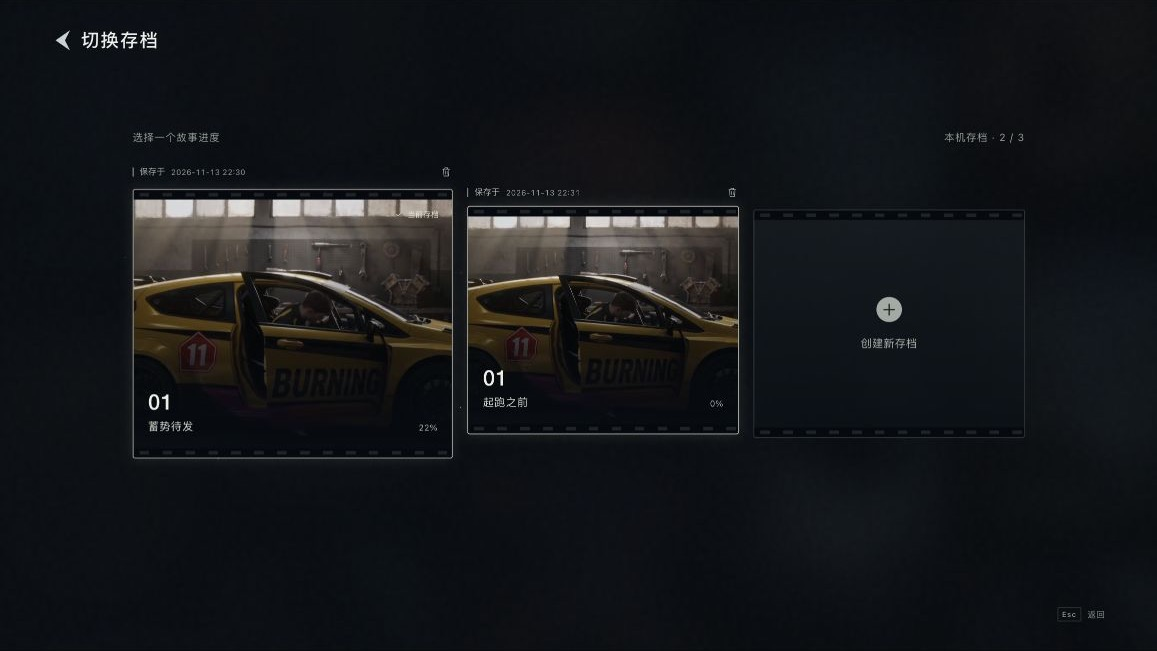
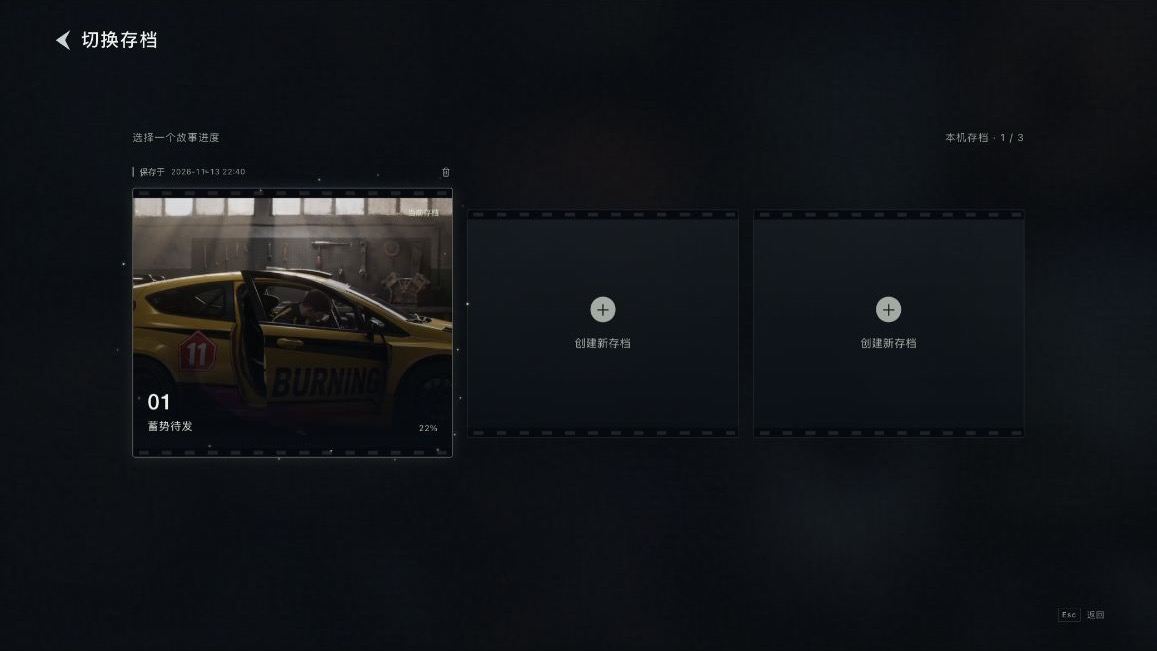
Make selected save card light dust more visible

diff --git a/compare.html b/compare.html
@@ -1,4 +1,4 @@
-<!doctype html><html lang="zh-CN"><head><meta charset="utf-8"><meta name="viewport" content="width=device-width,initial-scale=1"><title>Yoroll 游戏 UI · 改版对比与比例方案</title><link rel="icon" href="wall/assets/yoroll-icon.svg"><link rel="stylesheet" href="compare.css?v=saves-selected-dust-20261113"></head>
+<!doctype html><html lang="zh-CN"><head><meta charset="utf-8"><meta name="viewport" content="width=device-width,initial-scale=1"><title>Yoroll 游戏 UI · 改版对比与比例方案</title><link rel="icon" href="wall/assets/yoroll-icon.svg"><link rel="stylesheet" href="compare.css?v=saves-dust-visible-20261113"></head>
 <body><header class="report-header"><a class="brand" href="index.html"><img src="assets/yoroll-logo.png" alt="yoroll"></a><div><span>UI / MOTION STUDY</span><h1>更克制的比例，更连贯的节奏。</h1></div><a id="open-prototype" class="primary-link" href="index.html?page=home" target="_blank">打开交互原型 ↗</a></header>
 <div class="scope"><i></i><span>本地交互方案</span><span>14 个页面 / 状态</span><span>16:9 横版</span><span>未修改线上 Unity 游戏</span></div>
 <main class="report-layout"><aside class="page-sidebar"><div class="sidebar-title">逐页对比</div><nav id="page-list"></nav><a href="#proportions">比例调整方案 ↓</a><a href="#handoff">动效与交付说明 ↓</a></aside><article><section class="comparison-section"><div class="page-heading"><div><span id="page-kind" class="eyebrow"></span><h2 id="page-name"></h2></div><div class="page-switch"><button id="prev" aria-label="上一页">←</button><span id="page-count"></span><button id="next" aria-label="下一页">→</button></div></div>
@@ -6,4 +6,4 @@
 <div id="comparison" class="comparison fit-stage" data-mode="wipe"><div class="still-stage"><div class="before-layer"><img id="before-image" alt="修改前截图"><div id="no-before" class="no-before" hidden><span>—</span><h3>没有对应原版截图</h3><p id="before-note"></p></div><span class="picture-label before-label">原版</span></div><div class="after-layer" id="after-layer"><img id="after-image" alt="修改后截图"><span class="picture-label after-label">新版</span></div><div id="wipe-handle" class="wipe-handle"><span>↔</span></div><div class="safe-area" aria-hidden="true"><span>4.5% 水平安全区</span></div></div><div class="motion-stage" hidden><iframe id="motion-frame" title="页面动效预览"></iframe><div class="safe-area" aria-hidden="true"><span>4.5% 水平安全区</span></div></div></div>
 <div id="slider-row" class="slider-row"><span>新版更多</span><input id="wipe-slider" type="range" min="0" max="100" value="50" aria-label="新旧画面分割位置"><span>原版更多</span></div><p id="image-note" class="image-note"></p><div class="change-summary"><div><h3>布局与层级</h3><p id="change"></p></div><div><h3>比例</h3><p id="ratio"></p></div><div><h3>动效与操作</h3><p id="motion"></p><p id="interaction"></p></div></div></section>
 <section id="proportions" class="spec-section"><div class="section-heading"><span class="eyebrow">PROPORTION SYSTEM</span><h2>分别调整层级，建立统一的尺寸体系。</h2><p>以下均以 1920×1080 为设计基准。实际预览按画幅等比缩放，保持 16:9；水平安全区为画面宽度的 4.5%。原版数值来自截图估测。</p></div><div class="table-scroll"><table><thead><tr><th>项目</th><th>原版 · 约</th><th>新版</th><th>变化</th><th>调整目的</th></tr></thead><tbody id="proportion-table"></tbody></table></div><div class="principles"><div><span>01</span><h3>让场景成为主体</h3><p>减少全屏灰白覆盖和重高光。菜单、设置、弹窗用暗色虚化与局部明暗建立前后层次。</p></div><div><span>02</span><h3>控制视觉重量</h3><p>正文、辅助数值、主操作分别定标。保留大结果标题，收紧表单标签与导航控件。</p></div><div><span>03</span><h3>统一反馈语言</h3><p>细描边、短位移、柔和减速。悬停、按下、选中、取消与退出都给出明确回应。</p></div></div></section>
-<section id="handoff" class="spec-section"><div class="section-heading"><span class="eyebrow">MOTION SYSTEM</span><h2>一套进出场节奏，覆盖每个页面。</h2><p>页面退出 150ms，新页标题先入场，内容以 42–70ms 错峰，主体在约 0.8–1.1s 内落位。背景与封面 Logo 使用更长的缓慢收尾。</p></div><div class="motion-grid"><div><h3>常规入场</h3><strong>560–760<span> ms</span></strong><p>缓动 cubic-bezier(.16, 1, .3, 1)<br>上下位移约 8–24px，以设计基准计</p></div><div><h3>背景推近</h3><strong>3.6<span> s</span></strong><p>起止速度与加速度均为零<br>封面 100% → 103.5%，结束后停留</p></div><div><h3>确认弹窗</h3><strong>420<span> ms</span></strong><p>遮罩先淡入，弹窗轻浮落位<br>退出 150ms，取消后恢复焦点</p></div></div><div class="check-row"><span>✓ 页面切换</span><span>✓ 悬停 / 按下</span><span>✓ 键盘操作</span><span>✓ 弹窗焦点</span><span>✓ 减少动态效果适配</span><span>✓ 所有页面可重播</span><span>✓ Hover / 点击 / 切页音效</span></div><div class="file-links"><a href="design-tokens.json" download>下载尺寸与颜色参数</a><a href="motion-spec.json" download>下载逐页动效参数</a><a href="sound-spec.json" download>下载界面音效参数</a><a href="implementation-notes.txt" download>下载落地说明</a><a href="https://preview.game.yoroll.ai/?config=Race&test=1&lang=zh" target="_blank">查看原始预览 ↗</a></div><details open><summary>范围、素材与验证说明</summary><ul id="scope-notes"></ul><p>已检查主菜单、章节与剧情树导航；设置数值与语言下拉；新建存档和确认 / 取消；限时选择暂停计时；选择 → QTE → 结果链路；结果计至 100%。所有页面 / 状态均已保存本地截图。</p></details></section><footer class="report-footer">YOROLL · UI & MOTION EXPLORATION <span>2026.11.11 · 本地方案</span></footer></article></main><script src="report-data.js?v=saves-selected-dust-20261113"></script><script src="compare.js?v=saves-selected-dust-20261113"></script></body></html>
+<section id="handoff" class="spec-section"><div class="section-heading"><span class="eyebrow">MOTION SYSTEM</span><h2>一套进出场节奏，覆盖每个页面。</h2><p>页面退出 150ms，新页标题先入场，内容以 42–70ms 错峰，主体在约 0.8–1.1s 内落位。背景与封面 Logo 使用更长的缓慢收尾。</p></div><div class="motion-grid"><div><h3>常规入场</h3><strong>560–760<span> ms</span></strong><p>缓动 cubic-bezier(.16, 1, .3, 1)<br>上下位移约 8–24px，以设计基准计</p></div><div><h3>背景推近</h3><strong>3.6<span> s</span></strong><p>起止速度与加速度均为零<br>封面 100% → 103.5%，结束后停留</p></div><div><h3>确认弹窗</h3><strong>420<span> ms</span></strong><p>遮罩先淡入，弹窗轻浮落位<br>退出 150ms，取消后恢复焦点</p></div></div><div class="check-row"><span>✓ 页面切换</span><span>✓ 悬停 / 按下</span><span>✓ 键盘操作</span><span>✓ 弹窗焦点</span><span>✓ 减少动态效果适配</span><span>✓ 所有页面可重播</span><span>✓ Hover / 点击 / 切页音效</span></div><div class="file-links"><a href="design-tokens.json" download>下载尺寸与颜色参数</a><a href="motion-spec.json" download>下载逐页动效参数</a><a href="sound-spec.json" download>下载界面音效参数</a><a href="implementation-notes.txt" download>下载落地说明</a><a href="https://preview.game.yoroll.ai/?config=Race&test=1&lang=zh" target="_blank">查看原始预览 ↗</a></div><details open><summary>范围、素材与验证说明</summary><ul id="scope-notes"></ul><p>已检查主菜单、章节与剧情树导航；设置数值与语言下拉；新建存档和确认 / 取消；限时选择暂停计时；选择 → QTE → 结果链路；结果计至 100%。所有页面 / 状态均已保存本地截图。</p></details></section><footer class="report-footer">YOROLL · UI & MOTION EXPLORATION <span>2026.11.11 · 本地方案</span></footer></article></main><script src="report-data.js?v=saves-dust-visible-20261113"></script><script src="compare.js?v=saves-dust-visible-20261113"></script></body></html>

diff --git a/app.js b/app.js
@@ -288,14 +288,31 @@ function storyProgressMarkup(node){
  if(node.locked)return '';
  return `<span class="node-progress" role="progressbar" aria-label="游玩进度" aria-valuemin="0" aria-valuemax="100" aria-valuenow="${node.progress}"><span class="node-progress-value" aria-hidden="true">${node.progress}%</span><span class="node-progress-track" aria-hidden="true"><span class="node-progress-fill" style="width:${node.progress}%"></span></span></span>`;
 }
-function storyDustMarkup(className='node-dust'){
- const motes=[
+function storyDustMarkup(className='node-dust',particleLayout){
+ const motes=particleLayout||[
   [18,6,1.6,-6,-24,6.4,-1.1], [59,7,1.8,5,-20,7.3,-4.8],
   [97,36,1.5,6,-26,6.8,-2.9], [72,96,2,-7,-22,7.8,-6.2],
   [28,98,1.7,5,-28,6.1,-3.7], [3,67,1.6,-4,-20,7.1,-.4],
   [2,28,1.5,5,-24,7.6,-5.5], [98,81,2.1,-5,-30,6.7,-2]
  ];
  return `<span class="${className}" aria-hidden="true">${motes.map(([x,y,size,dx,rise,duration,delay])=>`<i style="left:${x}%;top:${y}%;--dust-size:${size};--dust-dx:${dx};--dust-rise:${rise};--dust-duration:${duration}s;--dust-delay:${delay}s"></i>`).join('')}</span>`;
+}
+function saveDustMarkup(){
+ const motes=[
+  [8,5,2.8,-8,-28,6.4,-1.1], [24,3,3.4,6,-24,7.3,-4.8],
+  [41,7,2.6,-5,-32,7.8,-2.9], [57,2,3.8,8,-26,6.8,-5.4],
+  [75,5,3.1,-7,-30,7.1,-3.7], [91,6,2.7,5,-25,8.2,-.6],
+  [97,16,3.3,7,-29,7.4,-5.8], [94,32,2.6,-6,-34,6.6,-2],
+  [99,45,3.7,5,-26,7.9,-4.3], [96,61,2.9,8,-31,6.9,-.9],
+  [98,77,3.2,-5,-24,8.1,-6.1], [95,91,2.5,7,-35,7.2,-3.2],
+  [92,96,3.6,-8,-30,7.8,-6.2], [78,99,2.8,6,-26,6.5,-1.5],
+  [61,94,3.2,-5,-34,8.3,-4.9], [45,98,2.5,8,-28,7,-2.4],
+  [27,96,3.8,-7,-36,7.6,-5.7], [11,99,3,5,-29,6.8,-3.6],
+  [3,94,2.7,-5,-26,8,-.8], [5,80,3.5,7,-33,7.1,-4.1],
+  [1,63,2.5,-7,-28,7.7,-6.3], [4,48,3.2,6,-35,6.7,-2.7],
+  [2,31,3.6,-5,-25,8.4,-5.1], [5,14,2.8,8,-31,7.4,-1.8]
+ ];
+ return storyDustMarkup('node-dust save-dust',motes);
 }
 function treeView(){
  const chapter=activeChapter(),graph=storyTree.create(chapter),state=currentStoryState();
@@ -454,7 +471,7 @@ function saveView(){
  const cards=slots.map((save,index)=>{
   const active=Boolean(save)&&index===activeSlot;
   const number=save?String(Number(save.chapter.match(/\d+/)?.[0]||1)).padStart(2,'0'):'';
-  return `<div class="save-shell ${active?'is-active':''}" data-enter="save"><div class="save-meta">${save?`<span class="save-date">保存于 <span>${save.date}</span></span><button class="delete-save" data-action="delete-${index}" aria-label="删除存档位 ${index+1}">${icon('trash')}</button>`:''}</div><button class="save-card ${active?'selected':''} ${save?'':'empty-save'}" data-action="save-${index}" aria-label="存档位 ${index+1}${save?'，'+save.chapter+'，'+sceneLabel(save):'，创建新存档'}" ${save?`aria-pressed="${active}"`:''}>${save?`<div class="save-cover"><img src="assets/garage.jpg" alt=""></div><span class="save-active" aria-hidden="${!active}">${icon('check')}当前存档</span><div class="save-info"><div><span class="save-number" aria-hidden="true">${number}</span><h2>${sceneLabel(save)}</h2></div><span class="save-percent" aria-label="章节进度 ${save.progress}%">${save.progress}%</span></div>`:`<div class="save-empty-copy"><span class="plus" aria-hidden="true">＋</span><small>创建新存档</small></div>`}</button>${save?storyDustMarkup('node-dust save-dust'):''}</div>`;
+  return `<div class="save-shell ${active?'is-active':''}" data-enter="save"><div class="save-meta">${save?`<span class="save-date">保存于 <span>${save.date}</span></span><button class="delete-save" data-action="delete-${index}" aria-label="删除存档位 ${index+1}">${icon('trash')}</button>`:''}</div><button class="save-card ${active?'selected':''} ${save?'':'empty-save'}" data-action="save-${index}" aria-label="存档位 ${index+1}${save?'，'+save.chapter+'，'+sceneLabel(save):'，创建新存档'}" ${save?`aria-pressed="${active}"`:''}>${save?`<div class="save-cover"><img src="assets/garage.jpg" alt=""></div><span class="save-active" aria-hidden="${!active}">${icon('check')}当前存档</span><div class="save-info"><div><span class="save-number" aria-hidden="true">${number}</span><h2>${sceneLabel(save)}</h2></div><span class="save-percent" aria-label="章节进度 ${save.progress}%">${save.progress}%</span></div>`:`<div class="save-empty-copy"><span class="plus" aria-hidden="true">＋</span><small>创建新存档</small></div>`}</button>${save?saveDustMarkup():''}</div>`;
  }).join('');
  return `${pageHeading('切换存档','home')}<section class="saves-layout"><div class="section-line" data-enter="section"><span>选择一个故事进度</span><span>本机存档 · ${slots.filter(Boolean).length} / 3</span></div><div class="saves-grid">${cards}</div></section>${footer()}`;
 }

diff --git a/report-data.js b/report-data.js
@@ -66,9 +66,9 @@ window.YOROLL_REPORT = {
       "name": "切换存档",
       "before": "07-saves.jpg",
       "kind": "原版实拍 · 2026-11-13",
-      "change": "三张卡片及保存信息作为一组水平居中。当前存档比其他卡片大约 18%，配合细亮边和微光形成主次；移除重复的底部「选择存档」按钮，直接点击卡片确认切换。保留胶片边缘、保存时间、删除入口与圆形加号，SAVE FILES 及短线保持移除。 移除左下角「选择进度，继续故事」辅助文案。 当前卡片周围增加与剧情树一致的稀疏浮尘粒子。",
+      "change": "三张卡片及保存信息作为一组水平居中。当前存档比其他卡片大约 18%，配合细亮边和微光形成主次；移除重复的底部「选择存档」按钮，直接点击卡片确认切换。保留胶片边缘、保存时间、删除入口与圆形加号，SAVE FILES 及短线保持移除。 移除左下角「选择进度，继续故事」辅助文案。 当前卡片周围沿用剧情树的柔和浮尘色调，粒子加密至 24 个，适当加大粒径与柔光，让选中状态清晰可见。",
       "ratio": "三张卡片共用原有 1480px 行宽和 24px 间距；以 1920×1080 为基准，当前卡片约 531×448px，其余约 450×380px。字号保持当前设置。 整行以画面中心定位。",
-      "motion": "整行以 65ms 间隔、650ms 时长入场。确认切换后，卡片在原位置以 650ms 平滑交接大小，当前标记以 300ms 淡入淡出，页面不重新入场。 当前卡片每 6.4s 轻缓浮沉一轮，上浮最多 6px，切换时以 700ms 交接浮动幅度；保存时间和删除入口保持稳定。 8 个浮尘光点以约 6–8s 错峰漂移、淡现，选中切换时 400ms 交接；旧层暂停并淡出。",
+      "motion": "整行以 65ms 间隔、650ms 时长入场。确认切换后，卡片在原位置以 650ms 平滑交接大小，当前标记以 300ms 淡入淡出，页面不重新入场。 当前卡片每 6.4s 轻缓浮沉一轮，上浮最多 6px，切换时以 700ms 交接浮动幅度；保存时间和删除入口保持稳定。 24 个浮尘光点以约 6–8s 错峰漂移、淡现，选中切换时 400ms 交接；旧层暂停并淡出。",
       "interaction": "直接点击已有卡片确认切换；空档位可创建新存档。当前卡片、可访问选中状态与标记同步更新，取消确认保留现有选择。",
       "referenceUrl": "https://preview.game.yoroll.ai/?config=Race&test=1&lang=zh",
       "referenceRevision": "saves-reference-20261113",
@@ -76,7 +76,7 @@ window.YOROLL_REPORT = {
       "layoutRevision": "saves-centered-20261113",
       "selectedFloatRevision": "saves-selected-float-20261113",
       "footerRevision": "saves-footer-clean-20261113",
-      "selectedParticlesRevision": "saves-selected-dust-20261113"
+      "selectedParticlesRevision": "saves-dust-visible-20261113"
     },
     {
       "id": "settings",

diff --git a/compare.js b/compare.js
@@ -15,7 +15,7 @@ function updatePage(){
  $('#page-kind').textContent=page.kind;
  $('#page-count').textContent=`${String(index+1).padStart(2,'0')} / ${pages.length}`;
  $('#change').textContent=page.change;$('#ratio').textContent=page.ratio;$('#motion').textContent=page.motion;$('#interaction').textContent=page.interaction;
- $('#after-image').src=`comparison/after/${page.id}.jpg?v=saves-selected-dust-20261113`;
+ $('#after-image').src=`comparison/after/${page.id}.jpg?v=saves-dust-visible-20261113`;
  $('#after-image').alt=page.name+'修改后';
  $('#before-image').hidden=!page.before;
  $('#no-before').hidden=Boolean(page.before);
@@ -23,12 +23,12 @@ function updatePage(){
  else $('#before-image').removeAttribute('src');
  $('#before-note').textContent=page.kind==='沿用已定方案'?'沿用本聊天之前已确认的封面构图与素材。':'该状态未在这次线上预览中观察到。新版提供可操作的补充动效示例。';
  $('#image-note').textContent=mode==='motion'?'当前为可操作的实时动效。页面内可以继续导航，点击重播可回到所选页面。':page.before?'原版来自线上实际截图；新版为本地浏览器截图。底图部分不同，对比重点为 UI 占比、层级与位置。':'左侧保留来源说明；右侧展示本轮方案。点击「播放动效」体验完整入场。';
- $('#open-prototype').href=`index.html?page=${page.id}&revision=saves-selected-dust-20261113`;
+ $('#open-prototype').href=`index.html?page=${page.id}&revision=saves-dust-visible-20261113`;
  document.querySelectorAll('[data-page]').forEach(button=>{if(button.dataset.page===page.id)button.setAttribute('aria-current','page');else button.removeAttribute('aria-current');});
  history.replaceState(null,'','#'+page.id);
  if(mode==='motion')loadMotion();
 }
-function loadMotion(){const page=pages[index];$('#motion-frame').src=`index.html?page=${page.id}&capture=1&revision=saves-selected-dust-20261113&replay=${++replay}`;}
+function loadMotion(){const page=pages[index];$('#motion-frame').src=`index.html?page=${page.id}&capture=1&revision=saves-dust-visible-20261113&replay=${++replay}`;}
 function setMode(value){
  mode=value;$('#comparison').dataset.mode=mode;
  document.querySelectorAll('button[data-mode]').forEach(button=>button.setAttribute('aria-pressed',String(button.dataset.mode===mode)));

diff --git a/style.css b/style.css
@@ -123,8 +123,10 @@
 .saves-grid{display:flex;align-items:center}
 .save-shell{display:flex;flex-direction:column;flex:1 1 0;min-width:0;transition:flex-grow .65s var(--ease)}
 .save-shell.is-active{flex-grow:1.18}
-/* Match the story tree's dust, anchored below the save metadata row. */
+/* Larger save cards use denser, clearer dust with the story tree's soft palette. */
 .save-dust{top:calc(var(--p)*18)}
+.save-dust i{background:#eef1da;box-shadow:0 0 calc(var(--p)*5) #e1edcdb3,0 0 calc(var(--p)*11) #dfeacd26;animation-name:save-dust-drift}
+@keyframes save-dust-drift{0%{opacity:0;transform:translate3d(0,calc(var(--p)*6),0) scale(.82)}20%{opacity:.52}50%{opacity:.84}80%{opacity:.4}100%{opacity:0;transform:translate3d(calc(var(--p)*var(--dust-dx)),calc(var(--p)*var(--dust-rise)),0) scale(1)}}
 .save-shell.is-active>.save-dust{opacity:1}
 .save-shell.is-active>.save-dust i{animation-play-state:running;will-change:transform,opacity}
 .game-frame[data-entry-state="entering"] .save-dust i{animation-play-state:paused}

diff --git a/index.html b/index.html
@@ -6,7 +6,7 @@
   <meta name="theme-color" content="#0a0d0e">
   <title>Yoroll · 游戏 UI 动效改版</title>
   <link rel="icon" href="wall/assets/yoroll-icon.svg">
-  <link rel="stylesheet" href="style.css?v=saves-selected-dust-20261113">
+  <link rel="stylesheet" href="style.css?v=saves-dust-visible-20261113">
   <link rel="preload" as="fetch" href="assets/audio/home-opening.wav?v=opening-fade-20261111" crossorigin="anonymous">
 </head>
 <body>
@@ -33,6 +33,6 @@
   <script src="ui-sound.js?v=chapter-short-resonance-20261113"></script>
   <script src="home-music.js?v=master-mute-20261113"></script>
   <script src="story-tree.js?v=tree-locked-hover-20261113"></script>
-  <script src="app.js?v=saves-selected-dust-20261113"></script>
+  <script src="app.js?v=saves-dust-visible-20261113"></script>
 </body>
 </html>
